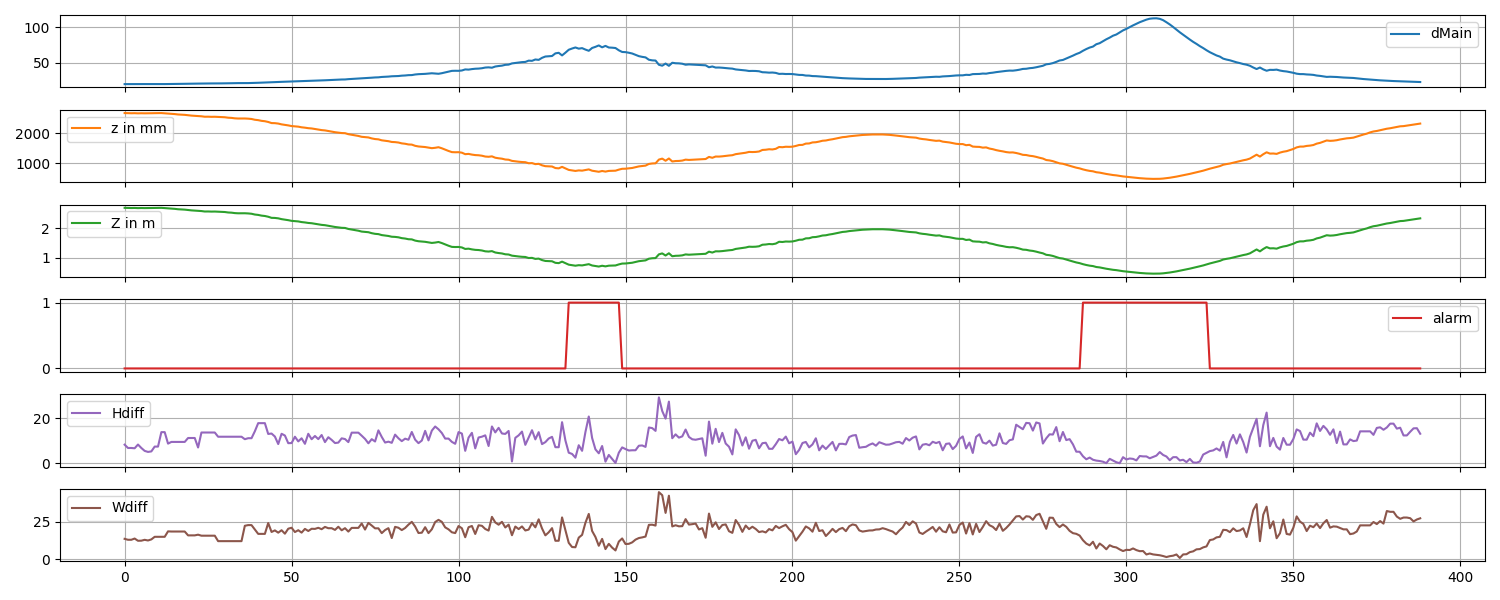
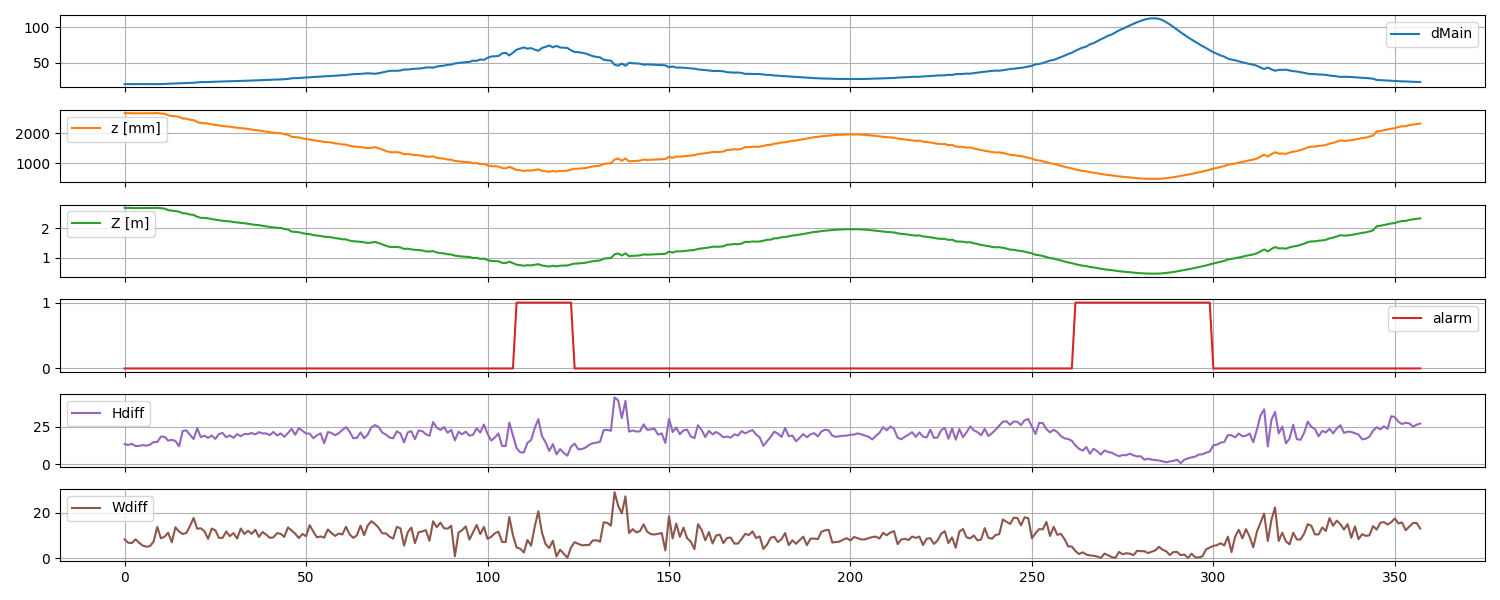
codice sistemato

diff --git a/main.py b/main.py
@@ -13,7 +13,7 @@ def main(videoL, videoR, showFrame = False):
 
     try:
         
-        df = pd.DataFrame(columns = ['dMain','z in mm','Z in m','alarm','Hdiff','Wdiff'])
+        df = pd.DataFrame(columns = ['dMain','z [mm]','Z [m]','alarm','Hdiff','Wdiff'])
 
         num_frame = 0
         dh = 0
@@ -29,9 +29,6 @@ def main(videoL, videoR, showFrame = False):
                 videoL.release()
                 videoR.release()
                 break
-
-            frameL = frameL.astype(np.uint8)
-            frameR = frameR.astype(np.uint8)
             
             imgL= cv2.cvtColor(frameL, cv2.COLOR_BGR2GRAY)
             imgR= cv2.cvtColor(frameR, cv2.COLOR_BGR2GRAY)
@@ -40,10 +37,10 @@ def main(videoL, videoR, showFrame = False):
             disparity = disp.computeDisparityMap(imgL, imgR)
 
             #estimate main disparity of the frame
-            zFrame, dmain = disp.distanceZframe(disparity) #m
+            zFrame, dmain = disp.distanceZframe(disparity) #mm
 
             #print distance and show the frame
-            if show:
+            if showFrame:
                 title = "frame "+str(num_frame)+":\ndistance="+str(zFrame)+" ; dmain="+str(dmain)
                 u.imshow("VideoL",title, imgL)
             
@@ -63,7 +60,7 @@ def main(videoL, videoR, showFrame = False):
             if(ret == True):
                 
                 #Compare the size of the chessboard computed with the real ones
-                z_mm = zFrame*1000
+                z_mm = zFrame
                 W_mm = (z_mm*wL)/c.F
                 H_mm = (z_mm*hL)/c.F
                 
@@ -71,15 +68,15 @@ def main(videoL, videoR, showFrame = False):
                 dh = abs(c.REAL_H-H_mm)
 
 
-            output = {
-                        'dMain': dmain,
-                        'z in mm': zFrame*1000,
-                        'Z in m': zFrame,
-                        'alarm': alarm,
-                        'Hdiff': dw,
-                        'Wdiff': dh
-                        }
-            df.loc[len(df)] = output
+                output = {
+                            'dMain': dmain,
+                            'z [mm]': zFrame,
+                            'Z [m]': zFrame/1000,
+                            'alarm': alarm,
+                            'Hdiff': dh,
+                            'Wdiff': dw
+                            }
+                df.loc[len(df)] = output
 
             num_frame += 1
 

diff --git a/disparityMap.py b/disparityMap.py
@@ -5,7 +5,7 @@ import utils
 import constant as c
 
 def distanceZframe(disparity):
-    disp0 = disparity[disparity>0]/16
+    disp0 = disparity[disparity>=0]/16
 
     #Estimate a main disparity
     d = np.mean(disp0) 
@@ -18,10 +18,8 @@ def distanceZframe(disparity):
 
     #Determine the distance in mm
     z=(c.B*c.F)/d #mm
-    #convert in m
-    z_m = z/1000 #m
     
-    return z_m, d
+    return z, d
 
 def computeDisparityMap(imgL, imgR, numDisp=128, blockSize=33, interval=50, showDisparity=False):
 

diff --git a/constant.py b/constant.py
@@ -8,7 +8,7 @@ F = 567.2
 B = 92.226
 
 #alarm distance (in meters)
-MIN_DIST = 0.8
+MIN_DIST = 800
 
 #chessboard parameters
 NUM_H = 8
